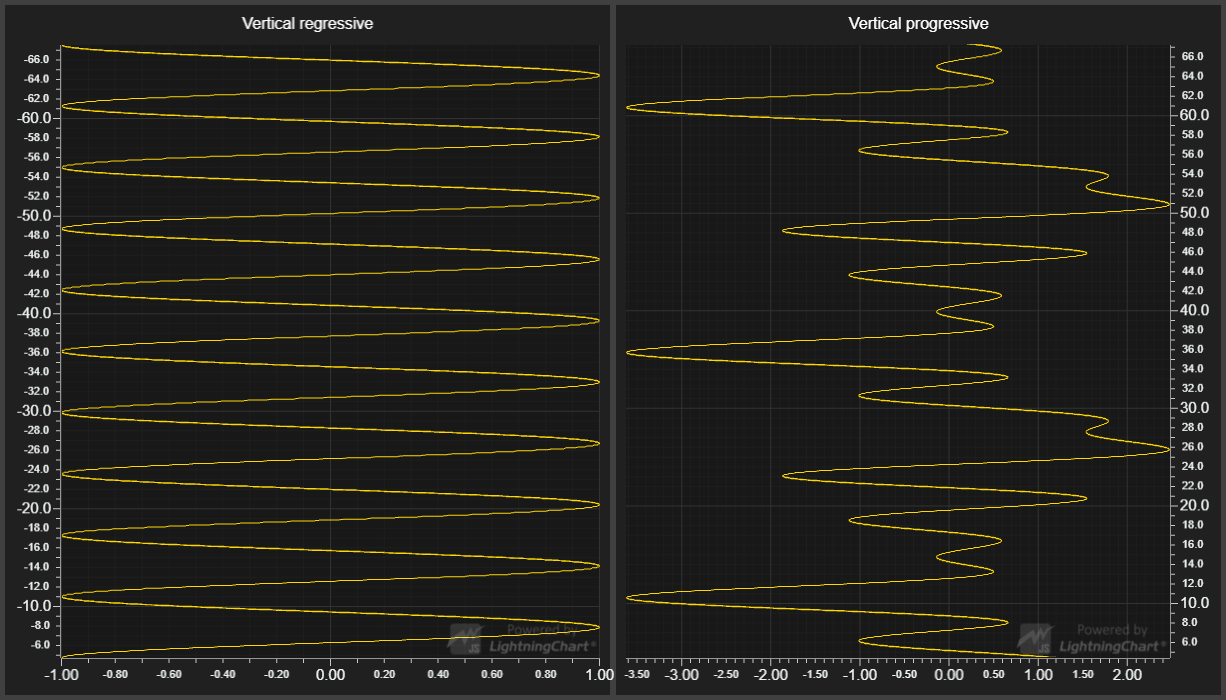
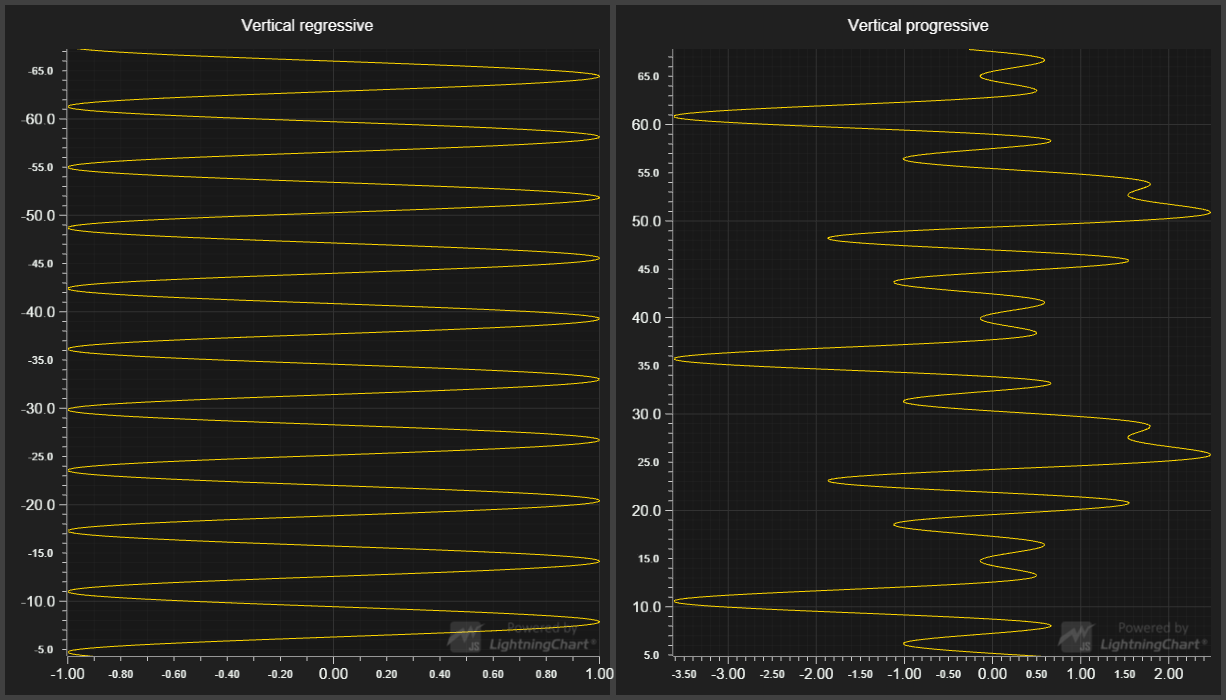
LCJS 3.0.0

diff --git a/src/index.js b/src/index.js
@@ -8,7 +8,6 @@ const lcjs = require('@arction/lcjs')
 const {
     lightningChart,
     AxisScrollStrategies,
-    DataPatterns,
     Themes
 } = lcjs
 
@@ -47,8 +46,18 @@ chart1.getDefaultAxisY()
     .setInterval(viewRange, 0)
     .setScrollStrategy(AxisScrollStrategies.regressive)
 const series1 = chart1.addLineSeries({
-    dataPattern: DataPatterns.verticalRegressive
+    dataPattern: {
+        // pattern: 'RegressiveY' => Each consecutive data point has decreased Y coordinate.
+        pattern: 'RegressiveY',
+        // regularProgressiveStep: true => The Y step between each consecutive data point is regular (for example, always `1.0`).
+        regularProgressiveStep: true,
+    }
 })
+    // Destroy automatically outscrolled data (old data becoming out of scrolling axis range).
+    // Actual data cleaning can happen at any convenient time (not necessarily immediately when data goes out of range).
+    .setMaxPointCount(10000)
+    // Point to nearest Y data point with auto cursor.
+    .setCursorSolveBasis('nearest-y')
 
 // Second, a vertically progressive series with custom axis.
 chart2.setTitle('Vertical progressive')
@@ -59,8 +68,19 @@ const customAxisY = chart2.addAxisY(true)
 
 const series2 = chart2.addLineSeries({
     yAxis: customAxisY,
-    dataPattern: DataPatterns.verticalProgressive
+    dataPattern: {
+        // pattern: 'ProgressiveY' => Each consecutive data point has increased Y coordinate.
+        pattern: 'ProgressiveY',
+        // regularProgressiveStep: true => The Y step between each consecutive data point is regular (for example, always `1.0`).
+        regularProgressiveStep: true,
+    }
 })
+    // Destroy automatically outscrolled data (old data becoming out of scrolling axis range).
+    // Actual data cleaning can happen at any convenient time (not necessarily immediately when data goes out of range).
+    .setMaxPointCount(10000)
+    // Point to nearest Y data point with auto cursor.
+    .setCursorSolveBasis('nearest-y')
+
 // Dispose unused default Y-axis.
 chart2.getDefaultAxisY().dispose()
 

diff --git a/README.md b/README.md
@@ -28,7 +28,7 @@ This example shows different progressive data-patterns, scrolling strategies, cu
 * [XY cartesian chart]
 * [Axis]
 * [Scroll strategies]
-* [Progressive line series]
+* [Line series]
 * [Data patterns]
 
 
@@ -53,10 +53,10 @@ Direct developer email support can be purchased through a [Support Plan][4] or b
 © Arction Ltd 2009-2020. All rights reserved.
 
 
-[Dashboard]: https://www.arction.com/lightningchart-js-api-documentation/v2.2.0/classes/dashboard.html
-[XY cartesian chart]: https://www.arction.com/lightningchart-js-api-documentation/v2.2.0/classes/chartxy.html
-[Axis]: https://www.arction.com/lightningchart-js-api-documentation/v2.2.0/classes/axis.html
-[Scroll strategies]: https://www.arction.com/lightningchart-js-api-documentation/v2.2.0/globals.html#axisscrollstrategies
-[Progressive line series]: https://www.arction.com/lightningchart-js-api-documentation/v2.2.0/classes/progressivelineseries.html
-[Data patterns]: https://www.arction.com/lightningchart-js-api-documentation/v2.2.0/globals.html#datapatterns
+[Dashboard]: https://www.arction.com/lightningchart-js-api-documentation/v3.0.0/classes/dashboard.html
+[XY cartesian chart]: https://www.arction.com/lightningchart-js-api-documentation/v3.0.0/classes/chartxy.html
+[Axis]: https://www.arction.com/lightningchart-js-api-documentation/v3.0.0/classes/axis.html
+[Scroll strategies]: https://www.arction.com/lightningchart-js-api-documentation/v3.0.0/globals.html#axisscrollstrategies
+[Line series]: https://www.arction.com/lightningchart-js-api-documentation/v3.0.0/classes/lineseries.html
+[Data patterns]: https://www.arction.com/lightningchart-js-api-documentation/v3.0.0/interfaces/datapattern.html
 
